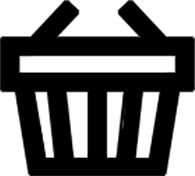
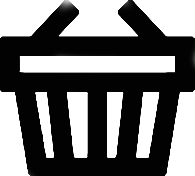
appuyer sur un bouton fait apparaitre sa version inversé.
les png ont été créé avec la fonction de value invert de GIMP, qui créé l'inverse en luminosité !

diff --git a/src/Vue/ourPictures.java b/src/Vue/ourPictures.java
@@ -9,34 +9,59 @@ import java.util.Map;
 
 /**
  * ourPictures loads all the pictures used in the program to avoid having to load them multiple times.
+ *
+ * This is very bulky and repetitive because it's intended to be used in static.
  */
 public final class ourPictures {
-    private static StretchIcon admin = loadPicture("src/ressources/admin.png");
-    private static StretchIcon afficherHistorique = loadPicture("src/ressources/afficherHistorique.png");
-    private static StretchIcon afficherStatistiques = loadPicture("src/ressources/afficherStatistiques.png");
-    private static StretchIcon ajouterPanier = loadPicture("src/ressources/ajouterPanier.png");
-    private static StretchIcon Background = loadPicture("src/ressources/Background.png");
-    private static StretchIcon bluray = loadPicture("src/ressources/bluray.png");
-    private static StretchIcon button = loadPicture("src/ressources/button.png");
-    private static StretchIcon compte = loadPicture("src/ressources/compte.png");
-    private static StretchIcon connexion = loadPicture("src/ressources/connexion.png");
-    private static StretchIcon disconnect = loadPicture("src/ressources/disconnect.png");
-    private static StretchIcon inscription = loadPicture("src/ressources/inscription.png");
-    private static StretchIcon inscriptionpayer = loadPicture("src/ressources/inscriptionpayer.png");
-    private static StretchIcon ouvrirAL2000 = loadPicture("src/ressources/ouvrirAL2000.png");
-    private static StretchIcon panier = loadPicture("src/ressources/panier.png");
-    private static StretchIcon parametres = loadPicture("src/ressources/parametres.png");
-    private static StretchIcon QRCode = loadPicture("src/ressources/QRCode.png");
-    private static StretchIcon recharger = loadPicture("src/ressources/recharger.png");
-    private static StretchIcon rendredvd = loadPicture("src/ressources/rendredvd.png");
-    private static StretchIcon rendrefilms = loadPicture("src/ressources/rendrefilms.png");
-    private static StretchIcon retirer = loadPicture("src/ressources/retirer.png");
-    private static StretchIcon retour = loadPicture("src/ressources/retour.png");
-    private static StretchIcon search = loadPicture("src/ressources/search.png");
-    private static StretchIcon signalerProbleme = loadPicture("src/ressources/signalerProbleme.png");
-    private static StretchIcon voirfilms = loadPicture("src/ressources/voirfilms.png");
-
-    private static Map<String, StretchIcon> map = hashMapCreate();
+    private static final StretchIcon admin = loadPicture("src/ressources/admin.png");
+    private static final StretchIcon afficherHistorique = loadPicture("src/ressources/afficherHistorique.png");
+    private static final StretchIcon afficherStatistiques = loadPicture("src/ressources/afficherStatistiques.png");
+    private static final StretchIcon ajouterPanier = loadPicture("src/ressources/ajouterPanier.png");
+    private static final StretchIcon Background = loadPicture("src/ressources/Background.png");
+    private static final StretchIcon bluray = loadPicture("src/ressources/bluray.png");
+    private static final StretchIcon button = loadPicture("src/ressources/button.png");
+    private static final StretchIcon compte = loadPicture("src/ressources/compte.png");
+    private static final StretchIcon connexion = loadPicture("src/ressources/connexion.png");
+    private static final StretchIcon disconnect = loadPicture("src/ressources/disconnect.png");
+    private static final StretchIcon inscription = loadPicture("src/ressources/inscription.png");
+    private static final StretchIcon inscriptionpayer = loadPicture("src/ressources/inscriptionpayer.png");
+    private static final StretchIcon ouvrirAL2000 = loadPicture("src/ressources/ouvrirAL2000.png");
+    private static final StretchIcon panier = loadPicture("src/ressources/panier.png");
+    private static final StretchIcon parametres = loadPicture("src/ressources/parametres.png");
+    private static final StretchIcon QRCode = loadPicture("src/ressources/QRCode.png");
+    private static final StretchIcon recharger = loadPicture("src/ressources/recharger.png");
+    private static final StretchIcon rendredvd = loadPicture("src/ressources/rendredvd.png");
+    private static final StretchIcon rendrefilms = loadPicture("src/ressources/rendrefilms.png");
+    private static final StretchIcon retirer = loadPicture("src/ressources/retirer.png");
+    private static final StretchIcon retour = loadPicture("src/ressources/retour.png");
+    private static final StretchIcon search = loadPicture("src/ressources/search.png");
+    private static final StretchIcon signalerProbleme = loadPicture("src/ressources/signalerProbleme.png");
+    private static final StretchIcon voirfilms = loadPicture("src/ressources/voirfilms.png");
+    private static final StretchIcon admin_pressed = loadPicture("src/ressources/admin.png_pressed.png");
+    private static final StretchIcon afficherHistorique_pressed = loadPicture("src/ressources/afficherHistorique.png_pressed.png");
+    private static final StretchIcon afficherStatistiques_pressed = loadPicture("src/ressources/afficherStatistiques.png_pressed.png");
+    private static final StretchIcon ajouterPanier_pressed = loadPicture("src/ressources/ajouterPanier.png_pressed.png");
+    private static final StretchIcon Background_pressed = loadPicture("src/ressources/Background.png_pressed.png");
+    private static final StretchIcon bluray_pressed = loadPicture("src/ressources/bluray.png_pressed.png");
+    private static final StretchIcon button_pressed = loadPicture("src/ressources/button.png_pressed.png");
+    private static final StretchIcon compte_pressed = loadPicture("src/ressources/compte.png_pressed.png");
+    private static final StretchIcon connexion_pressed = loadPicture("src/ressources/connexion.png_pressed.png");
+    private static final StretchIcon disconnect_pressed = loadPicture("src/ressources/disconnect.png_pressed.png");
+    private static final StretchIcon inscription_pressed = loadPicture("src/ressources/inscription.png_pressed.png");
+    private static final StretchIcon inscriptionpayer_pressed = loadPicture("src/ressources/inscriptionpayer.png_pressed.png");
+    private static final StretchIcon ouvrirAL2000_pressed = loadPicture("src/ressources/ouvrirAL2000.png_pressed.png");
+    private static final StretchIcon panier_pressed = loadPicture("src/ressources/panier.png_pressed.png");
+    private static final StretchIcon parametres_pressed = loadPicture("src/ressources/parametres.png_pressed.png");
+    private static final StretchIcon QRCode_pressed = loadPicture("src/ressources/QRCode.png_pressed.png");
+    private static final StretchIcon recharger_pressed = loadPicture("src/ressources/recharger.png_pressed.png");
+    private static final StretchIcon rendredvd_pressed = loadPicture("src/ressources/rendredvd.png_pressed.png");
+    private static final StretchIcon rendrefilms_pressed = loadPicture("src/ressources/rendrefilms.png_pressed.png");
+    private static final StretchIcon retirer_pressed = loadPicture("src/ressources/retirer.png_pressed.png");
+    private static final StretchIcon retour_pressed = loadPicture("src/ressources/retour.png_pressed.png");
+    private static final StretchIcon search_pressed = loadPicture("src/ressources/search.png_pressed.png");
+    private static final StretchIcon signalerProbleme_pressed = loadPicture("src/ressources/signalerProbleme.png_pressed.png");
+    private static final StretchIcon voirfilms_pressed = loadPicture("src/ressources/voirfilms.png_pressed.png");
+    private static final Map<String, StretchIcon> map = hashMapCreate();
 
     private static Map<String, StretchIcon> hashMapCreate(){
         Map<String, StretchIcon> out = new HashMap<String, StretchIcon>();
@@ -64,6 +89,30 @@ public final class ourPictures {
         out.put("src/ressources/search.png", search);
         out.put("src/ressources/signalerProbleme.png", signalerProbleme);
         out.put("src/ressources/voirfilms.png", voirfilms);
+        out.put("src/ressources/admin.png_pressed.png", admin_pressed);
+        out.put("src/ressources/afficherHistorique.png_pressed.png", afficherHistorique_pressed);
+        out.put("src/ressources/afficherStatistiques.png_pressed.png", afficherStatistiques_pressed);
+        out.put("src/ressources/ajouterPanier.png_pressed.png", ajouterPanier_pressed);
+        out.put("src/ressources/Background.png_pressed.png", Background_pressed);
+        out.put("src/ressources/bluray.png_pressed.png", bluray_pressed);
+        out.put("src/ressources/button.png_pressed.png", button_pressed);
+        out.put("src/ressources/compte.png_pressed.png", compte_pressed);
+        out.put("src/ressources/connexion.png_pressed.png", connexion_pressed);
+        out.put("src/ressources/disconnect.png_pressed.png", disconnect_pressed);
+        out.put("src/ressources/inscription.png_pressed.png", inscription_pressed);
+        out.put("src/ressources/inscriptionpayer.png_pressed.png", inscriptionpayer_pressed);
+        out.put("src/ressources/ouvrirAL2000.png_pressed.png", ouvrirAL2000_pressed);
+        out.put("src/ressources/panier.png_pressed.png", panier_pressed);
+        out.put("src/ressources/parametres.png_pressed.png", parametres_pressed);
+        out.put("src/ressources/QRCode.png_pressed.png", QRCode_pressed);
+        out.put("src/ressources/recharger.png_pressed.png", recharger_pressed);
+        out.put("src/ressources/rendredvd.png_pressed.png", rendredvd_pressed);
+        out.put("src/ressources/rendrefilms.png_pressed.png", rendrefilms_pressed);
+        out.put("src/ressources/retirer.png_pressed.png", retirer_pressed);
+        out.put("src/ressources/retour.png_pressed.png", retour_pressed);
+        out.put("src/ressources/search.png_pressed.png", search_pressed);
+        out.put("src/ressources/signalerProbleme.png_pressed.png", signalerProbleme_pressed);
+        out.put("src/ressources/voirfilms.png_pressed.png", voirfilms_pressed);
         return out;
     }
     public static StretchIcon loadPicture(String path){

diff --git a/src/Vue/Bienvenue.java b/src/Vue/Bienvenue.java
@@ -31,9 +31,10 @@ public class Bienvenue extends JPanel{
         // Liste de tous les boutons
         listeBoutons = new JButton[4];
 
+        String[] refs = {"src/ressources/connexion.png", "src/ressources/rendrefilms.png", "src/ressources/inscription.png", "src/ressources/voirfilms.png"};
         // Ajouter tous les boutons dans leur panneau
         for(int i=0; i<4;i++){
-            listeBoutons[i] = this.transparentButtonWithIcon(i);
+            listeBoutons[i] = ourTools.transparentButtonWithIcon(refs[i]);
             //listeBoutons[i].addActionListener(e -> panneauPrincipal.setVisible(false));
             boutons.add(new JLabel(""));
             boutons.add(listeBoutons[i]);
@@ -59,28 +60,6 @@ public class Bienvenue extends JPanel{
         this.setActions();
         this.add(panneauPrincipal, BorderLayout.CENTER);
 
-    }
-
-    JButton transparentButtonWithIcon(int i){
-        /**
-         * Creates a JButton that does not appear but has an icon set.
-         */
-
-        String[] refs = {"src/ressources/connexion.png", "src/ressources/rendrefilms.png", "src/ressources/inscription.png", "src/ressources/voirfilms.png"};
-
-        // Create the button and initialise it
-        JButton jb = new JButton();
-        StretchIcon icon = ourPictures.getPicture(refs[i]);
-        System.out.println(icon.getDescription());
-        jb.setIcon(icon);
-
-        // Makes the button disappear
-        jb.setBorderPainted(false);
-        jb.setContentAreaFilled(false);
-        jb.setFocusPainted(false);
-        jb.setOpaque(false); // <-- https://stackoverflow.com/a/8367524
-
-        return jb;
     }
 
     public JButton getBouton(String name){

diff --git a/src/Vue/InterfaceUtilisateur.java b/src/Vue/InterfaceUtilisateur.java
@@ -21,6 +21,7 @@ public class InterfaceUtilisateur {
     InscriptionReussie inscriptionReussie;
     Connexion connexion;
     rendreDVD rendreDvd;
+    voirFilms voir_films;
     ETAT_IU etatCourant;
     JPanel panneauCourant;
 
@@ -40,6 +41,7 @@ public class InterfaceUtilisateur {
         inscriptionReussie = new InscriptionReussie();
         connexion = new Connexion();
         rendreDvd = new rendreDVD();
+        voir_films = new voirFilms();
 
         inscription.setVisible(true);
         inscriptionReussie.setVisible(true);
@@ -53,7 +55,7 @@ public class InterfaceUtilisateur {
 
         // Parametrage
         ecran.setDefaultCloseOperation(JFrame.EXIT_ON_CLOSE);
-        ecran.setMinimumSize(new Dimension(900, 500));
+        ecran.setMinimumSize(new Dimension(1000, 500));
         ecran.setPreferredSize(new Dimension((int)LARGEUR,(int)HAUTEUR));
         ecran.setContentPane(fondDEcran);
         ecran.setResizable(true);
@@ -63,7 +65,7 @@ public class InterfaceUtilisateur {
 
         ecran.add(panneauCourant);
 
-        changerEtat(ETAT_IU.RENDRE_DVD);
+        changerEtat(ETAT_IU.VOIR_FILMS);
 
         ecran.pack();
         ecran.setVisible(true);
@@ -96,7 +98,7 @@ public class InterfaceUtilisateur {
                     panneauCourant = rendreDvd;
                 }
                 case VOIR_FILMS -> {
-                    System.out.println("Voir films !");
+                    panneauCourant = voir_films;
                 }
                 default -> {
                     System.out.println("ERROR -- Unknown new state !");

diff --git a/src/Vue/voirFilms.java b/src/Vue/voirFilms.java
@@ -1,0 +1,46 @@
+package Vue;
+
+import javax.swing.*;
+import java.awt.*;
+
+public class voirFilms extends JPanel {
+    JPanel panneauGauche;
+    JPanel rechercher;
+    JPanel panneauDroite;
+
+    JTextField barreDeRecherche;
+    JButton btnRecherche;
+
+
+    public voirFilms(){
+        this.setLayout(new BorderLayout());
+        this.setOpaque(false);
+        panneauGauche = new JPanel();
+        panneauGauche.setBackground(new Color(0,0,0,120));
+        panneauGauche.setLayout(new BorderLayout());
+
+        rechercher = new JPanel(new BorderLayout());
+        rechercher.setBackground(ourColors.fond2());
+        rechercher.setBorder(BorderFactory.createMatteBorder(2,2,2,2,Color.BLACK));
+        barreDeRecherche = new JTextField();
+        barreDeRecherche.setOpaque(false);
+        barreDeRecherche.setEditable(true);
+
+        btnRecherche = ourTools.transparentButtonWithIcon("src/ressources/search.png");
+        //System.out.println("Dimensions of textfield : "+barreDeRecherche.getPreferredSize());
+        btnRecherche.setPreferredSize(new Dimension(75,75));
+
+        rechercher.add(barreDeRecherche, BorderLayout.CENTER);
+        rechercher.add(btnRecherche, BorderLayout.EAST);
+
+        panneauGauche.add(rechercher, BorderLayout.NORTH);
+
+        panneauDroite = new JPanel();
+        panneauDroite.setBackground(ourColors.fond());
+        panneauDroite.setPreferredSize(new Dimension(300, 600));
+
+        this.add(panneauGauche, BorderLayout.CENTER);
+        this.add(panneauDroite, BorderLayout.EAST);
+    }
+
+}

diff --git a/src/Vue/NavigationBar.java b/src/Vue/NavigationBar.java
@@ -32,7 +32,7 @@ public class NavigationBar extends JPanel {
         //this.setBackground(Color.GREEN);
         this.setOpaque(false);
 
-        navColor = ourColors.fond2();
+        navColor = ourColors.fond();
 
         droiteNav = new JPanel();
         droiteNav.setBackground(navColor);
@@ -70,7 +70,7 @@ public class NavigationBar extends JPanel {
         this.add(gaucheNav, BorderLayout.WEST);
         this.add(droiteNavOut);
 
-        borderSize = 7;
+        borderSize = 10;
 
         this.setThisBorder(true);
         this.setMinimumSize(new Dimension(856, 100));
@@ -79,11 +79,13 @@ public class NavigationBar extends JPanel {
     JButton bouton(String imageRef){
         // Create the Icon
         StretchIcon ii = ourPictures.getPicture(imageRef);// load image
+        StretchIcon pressed = ourPictures.getPicture(imageRef+"_pressed.png");// load image
         //testDialog(ii);
 
         // Create the button and initialise it
         JButton jb = new JButton();
         jb.setIcon(ii);
+        jb.setPressedIcon(pressed);
 
         Dimension defaultImageDimension = ourPictures.getDimensions(ii);
         jb.setPreferredSize(ourPictures.scaleDimensionByHeight(defaultImageDimension, 100));

diff --git a/src/Vue/ourTools.java b/src/Vue/ourTools.java
@@ -14,12 +14,15 @@ public class ourTools {
      * @return A JButton with an icon.
      */
     public static JButton transparentButtonWithIcon(String rss){
-
+        String pressedName = rss+"_pressed.png";
         // Create the button and initialise it
         JButton jb = new JButton();
         StretchIcon icon = ourPictures.getPicture(rss);
+        StretchIcon pressed = ourPictures.getPicture(pressedName);
+
         //System.out.println(icon.getDescription());
         jb.setIcon(icon);
+        jb.setPressedIcon(pressed);
 
         // Makes the button disappear
         jb.setBorderPainted(false);
